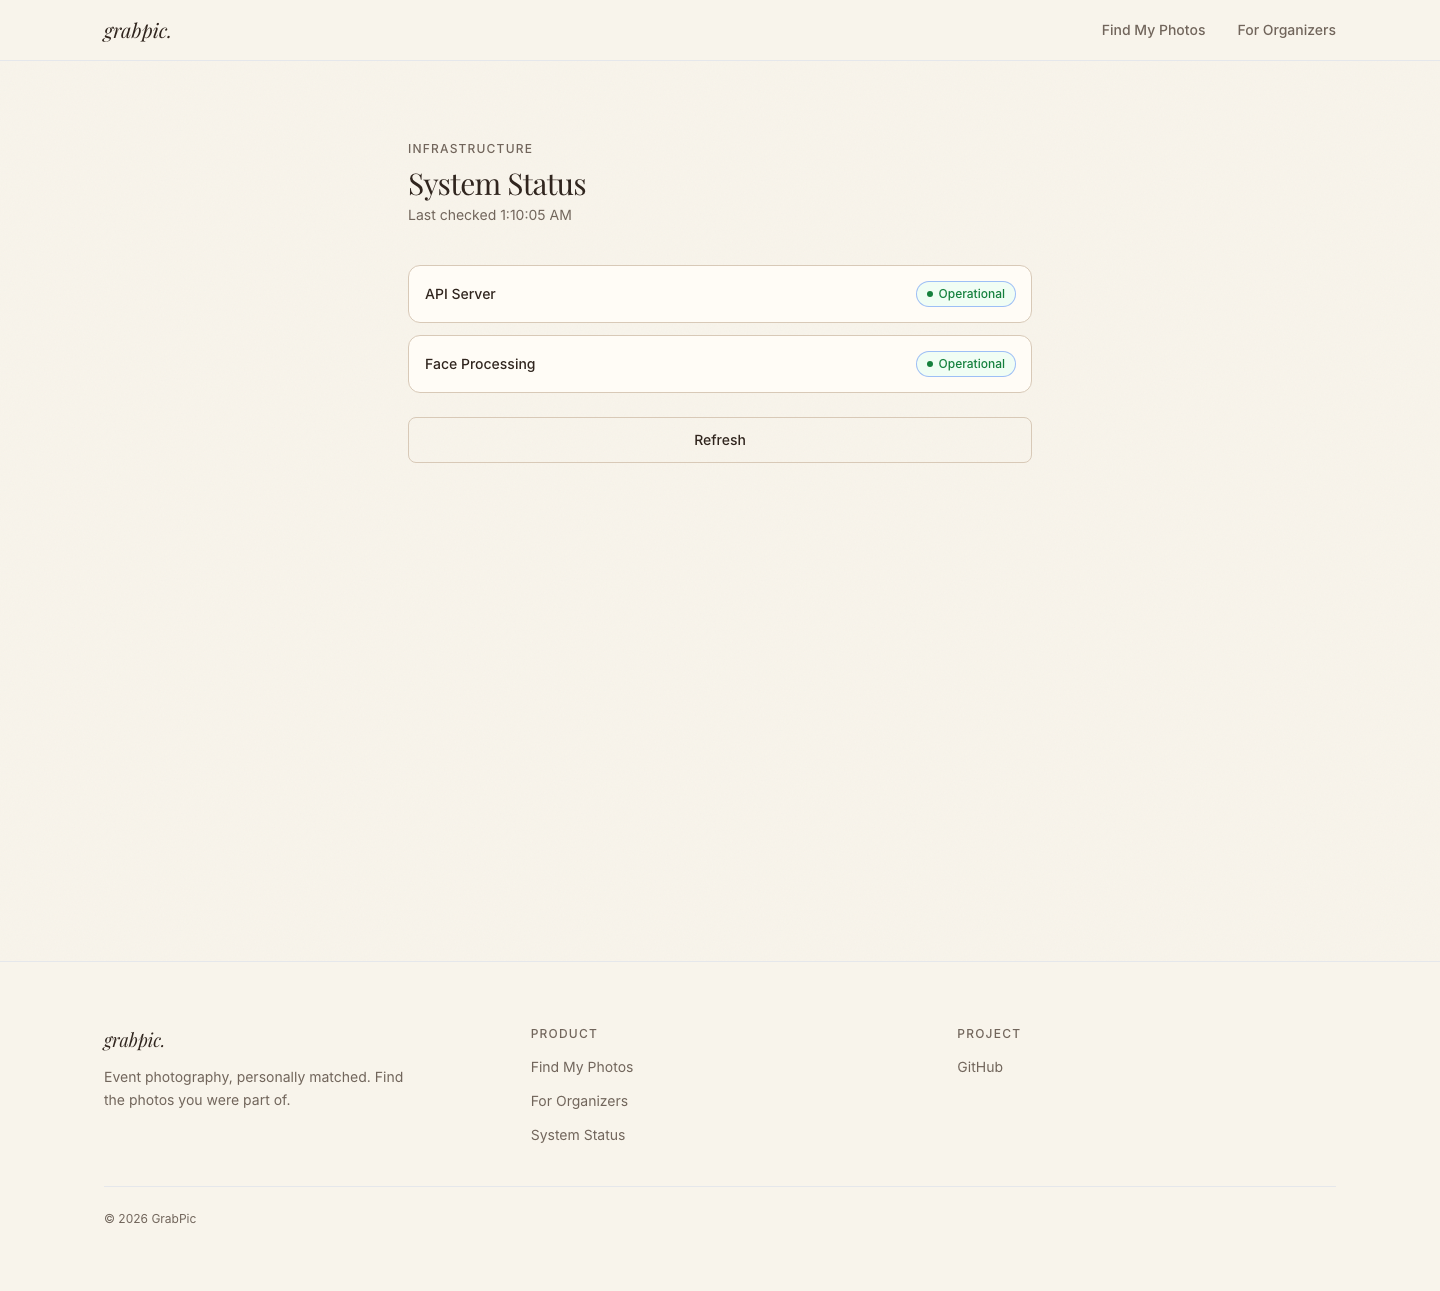
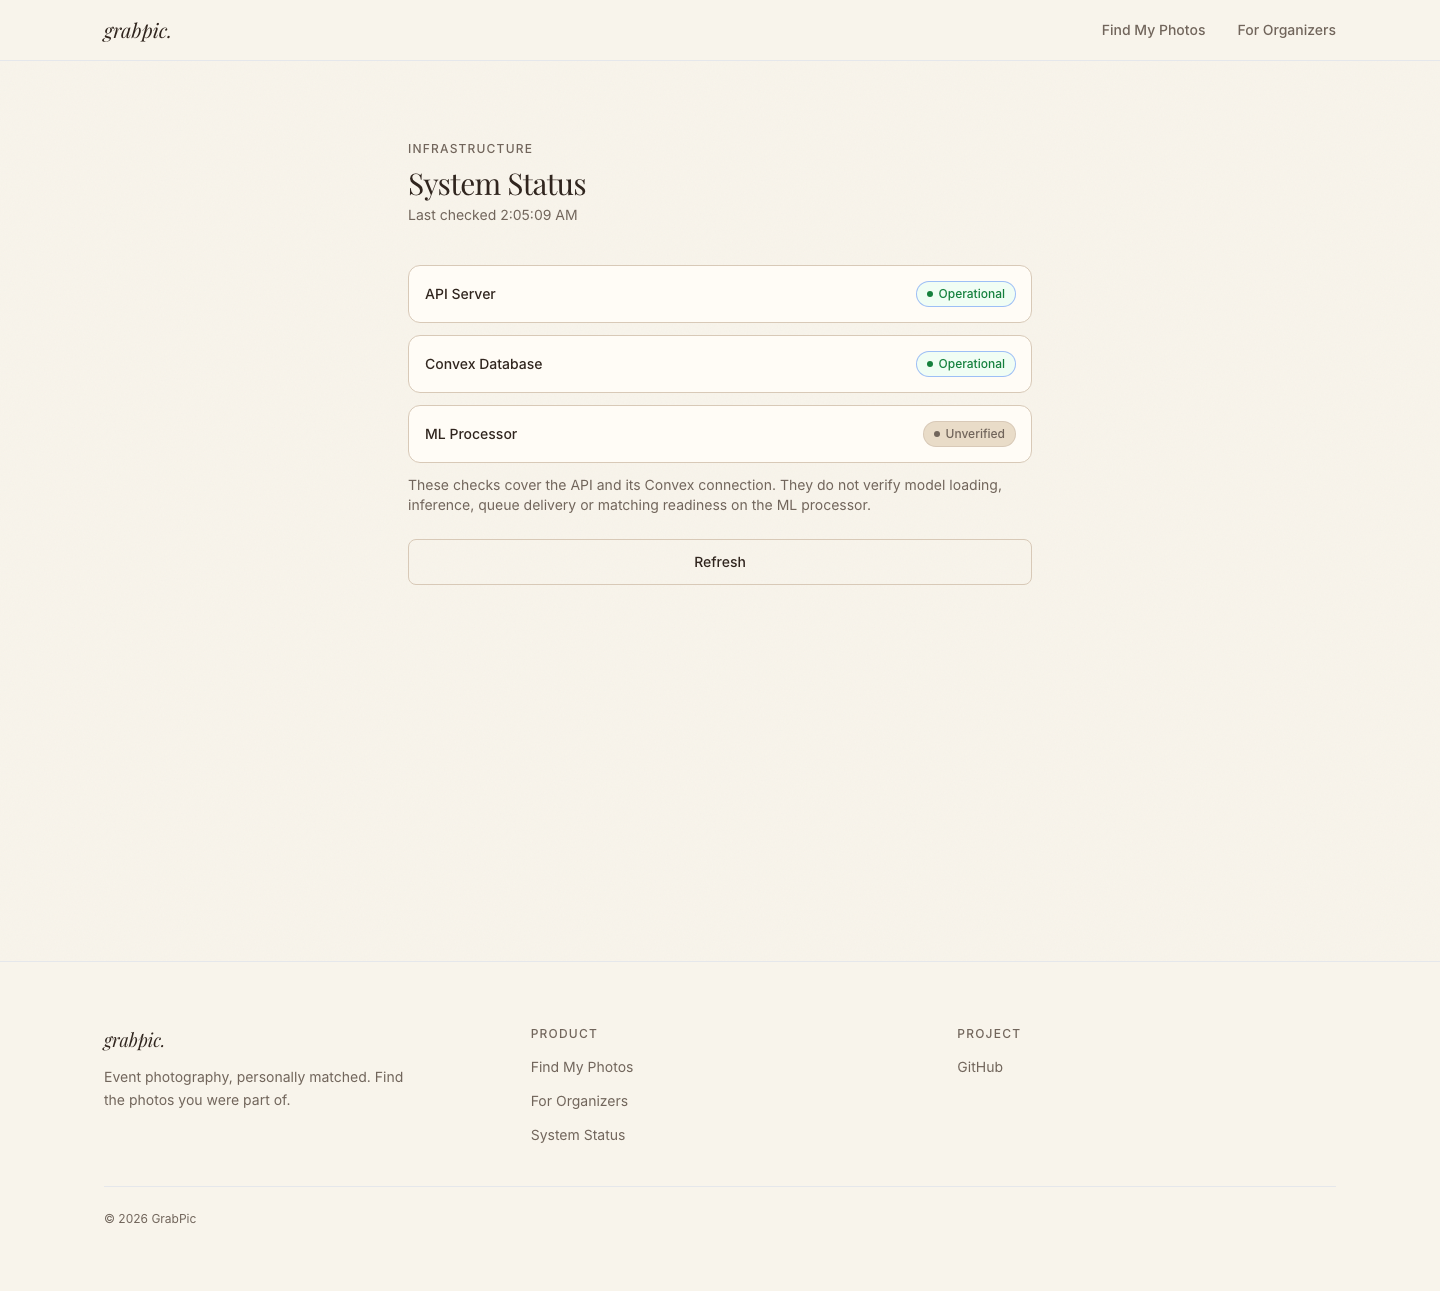
docs: refresh review verification and stacked PR status

Changed region(s): [[0.2812, 0.3098, 0.7188, 0.4028], [0.2812, 0.2789, 0.375, 0.3408], [0.3438, 0.1549, 0.4062, 0.1859]]

diff --git a/docs/ss/README.md b/docs/ss/README.md
@@ -4,17 +4,20 @@ Screenshots show the static production export at 1440 × 900 and 390 × 844 in P
 
 Coverage: landing, organizer, attendee, status and exported not-found page; attendee consent, synthetic camera capture, mocked matching, gallery and photo dialog. Mobile menu toggling, nested interactive elements, horizontal overflow, runtime errors, dialog focus containment and focus restoration are checked.
 
-The API, gallery image and camera are fixtures. Status badges show mocked healthy responses. The exported `/404.html` is opened directly, so its HTTP 200 does not verify hosting-level 404 routing. Error boundaries are not separate routes and were not forced.
+The API, gallery image and camera are fixtures. API and Convex badges show mocked healthy responses; ML readiness remains explicitly unverified. The exported `/404.html` is opened directly, so its HTTP 200 does not verify hosting-level 404 routing. Error boundaries are not separate routes and were not forced.
 
 To reproduce without adding dependencies to the app:
 
 ```sh
-npm install --prefix /tmp/grabpic-browser-qa playwright http-server
+npm install --prefix /tmp/grabpic-browser-qa playwright@1.65.1 http-server@14.1.1
 /tmp/grabpic-browser-qa/node_modules/.bin/playwright install chromium
 NEXT_PUBLIC_API_URL=https://api.grabpic.test pnpm --filter @grabpic/web build
 /tmp/grabpic-browser-qa/node_modules/.bin/http-server apps/web/out -p 3100 -e html -c-1
 # In another terminal, from the repository root:
 NODE_PATH=/tmp/grabpic-browser-qa/node_modules node scripts/browser-qa.cjs
+NODE_PATH=/tmp/grabpic-browser-qa/node_modules node scripts/review-regressions.cjs
 ```
 
 No real event, biometric data, upload or inference service is used. These checks do not establish production readiness or selfie latency.
+
+Review regressions verify that repeated partial upload failures never confirm, a later retry confirms the full collection, arrow navigation never closes/reopens the dialog, and Convex failure does not imply API failure or ML readiness. CI runs both browser scripts.

diff --git a/docs/superpowers/specs/anti-slop-follow-up.md b/docs/superpowers/specs/anti-slop-follow-up.md
@@ -19,3 +19,11 @@ Workspace TypeScript checks pass. Vitest reports 107 passing tests and 16 skippe
 ## Integration order
 
 Keep #15 in draft until #12 and #13 have both merged into master. Order: #12, #13, then #15. Both earlier branches touch the organizer page and API client; update from master and reconcile these flows before marking #15 ready. No merge or auto-merge was requested.
+
+## PR review fixes
+
+PR #15 is stacked on #13 (`fix/durable-processing-recovery`), which is based on #12. #14 was requested as the stack tip, but GitHub returns 404 for that number; its URL or corrected number remains needed. Do not merge #15 before its prerequisites.
+
+Partial upload failures now stop before confirmation; Retry uploads the complete selected collection with fresh signed URLs. Unconfirmed objects from abandoned attempts remain covered by the existing orphan cleanup. A new regression reproduces repeated PUT failure followed by a full successful retry. Dialog lifecycle now depends only on open state, with keyboard listeners updated separately; arrow tests count showModal/close calls. Status uses /health and /health/processing, labels the latter Convex, and reports ML readiness as unverified.
+
+Verification: all three regressions failed before fixes and pass afterward; desktop/mobile browser smoke passes; 124 Vitest tests and 30 Python tests pass. Infrastructure tests remain opt-in. Build, workspace type checks, Worker dry-run and Pages function compilation pass. The existing missing-ESLint build warning remains. Real inference and latency remain unverified.
